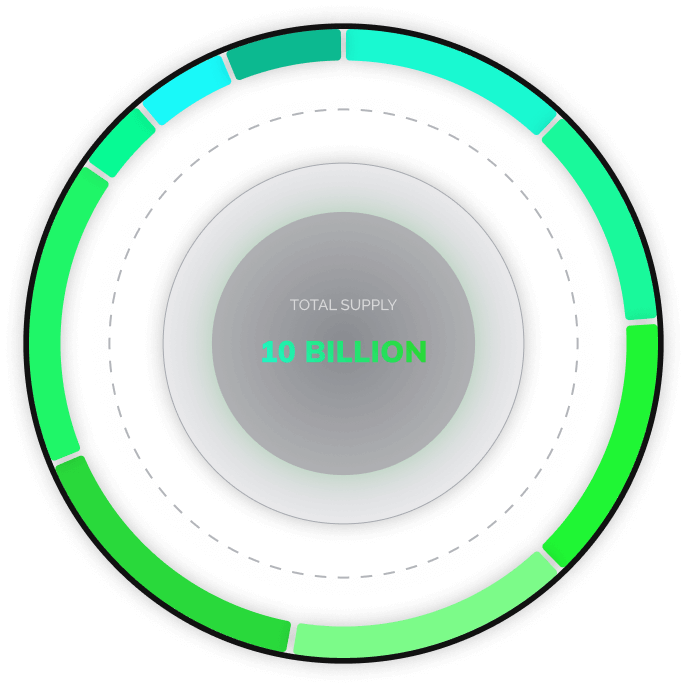
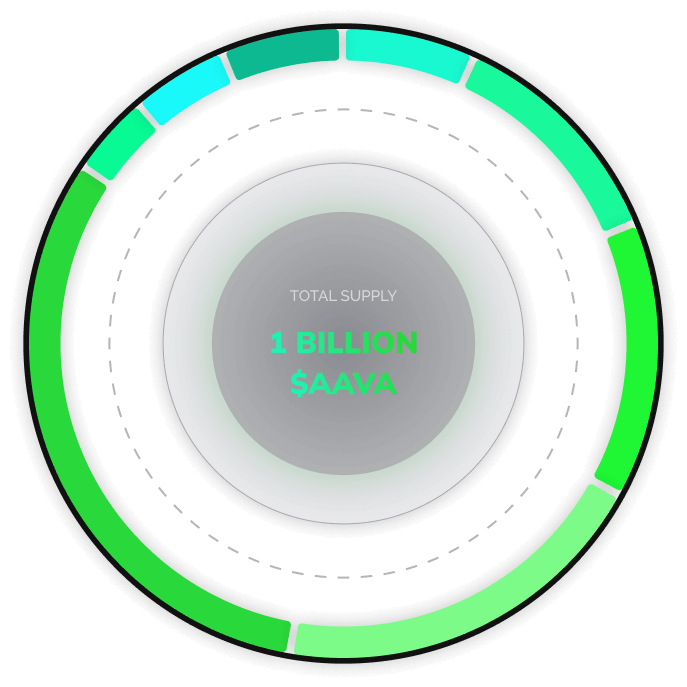
change-text

diff --git a/src/components/Sections/NativeCurrencySection/NativeCurrencySection.tsx b/src/components/Sections/NativeCurrencySection/NativeCurrencySection.tsx
@@ -5,58 +5,52 @@ import Image from 'next/image';
 
 const DATA = [
   {
+    id: 'preseed',
+    name: 'Pre-seed Round',
+    percent: '5% > TGE 5% > 12 month, Linear',
+    count: '50 Million',
+  },
+  {
     id: 'private',
     name: 'Private Round',
-    percent: '(4%)',
-    count: '400 Million',
-  },
-  {
-    id: 'marketing',
-    name: 'Marketing',
-    percent: '(5%)',
-    count: '500 Million',
-  },
-  {
-    id: 'dao',
-    name: 'DAO',
-    percent: '(6%)',
-    count: '600 Million',
+    percent: '10% > TGE 5% > 12 month, Linear',
+    count: '100 Million',
   },
   {
     id: 'liquidity',
     name: 'Liquidity',
-    percent: '(12%)',
-    count: '1.2 Billion',
+    percent: '(25%)',
+    count: '250 Million',
   },
   {
-    id: 'seria',
-    name: 'Seria A',
-    percent: '(12%)',
-    count: '1.2 Billion',
-  },
-  {
-    id: 'reserves',
-    name: 'Reserves',
-    percent: '(14%)',
-    count: '1.4 Billion',
+    id: 'eco',
+    name: 'Ecosystem & Community',
+    percent: '35%',
+    count: '350 Million',
   },
   {
     id: 'airdrop',
     name: 'Airdrop',
-    percent: '(15%)',
-    count: '1.5 Billion',
+    percent: '5%',
+    count: '50 Million',
   },
   {
-    id: 'foundations',
-    name: 'Foundations',
-    percent: '(16%)',
-    count: '1.6 Billion',
+    id: 'advisers',
+    name: 'Advisers',
+    percent: '2% > Cliff 6 month > 12 Month, Linear',
+    count: '20 Million',
+  },
+  {
+    id: 'partners',
+    name: 'Strategic Partners',
+    percent: '3% > TGE 5% > 12 Month, Linear',
+    count: '30 Million',
   },
   {
     id: 'team',
     name: 'Team & Advisers',
-    percent: '(16%)',
-    count: '1.6 Billion',
+    percent: '15% > TGE 0% > Cliff 6 month > 24 Month, Linear',
+    count: '150 Million',
   },
 ];
 
@@ -69,8 +63,8 @@ export const NativeCurrencySection = () => {
           $AAVA IS THE ICONIC <span>currency</span>
         </h2>
         <div className={styles.description}>
-          Maximize your experience with the $AAVA token: enjoy exclusive access, reduced fees,
-          staking rewards, and DAO governance.
+          Enhance your journey with the $AAVA token: indulge in exclusive access, reduced fees,
+          staking rewards, and participate in DAO governance
         </div>
       </div>
       <div className={styles.content}>

diff --git a/src/components/CardCurrency/CardCurrency.module.scss b/src/components/CardCurrency/CardCurrency.module.scss
@@ -2,40 +2,36 @@
   background: #191919;
   border-radius: 8px;
 
-  &.private {
+  &.preseed {
     border-left: 5px solid #19f9d1;
   }
 
-  &.marketing {
+  &.private {
     border-left: 5px solid #19f99b;
-  }
-
-  &.dao {
-    border-left: 5px solid #1ff634;
   }
 
   &.liquidity {
     border-left: 5px solid #7cfb89;
   }
 
-  &.seria {
+  &.eco {
     border-left: 5px solid #29d93b;
   }
 
-  &.reserves {
+  &.airdrop {
+    border-left: 5px solid #0cb990;
+  }
+
+  &.advisers {
     border-left: 5px solid #07fa94;
   }
 
-  &.airdrop {
-    border-left: 5px solid #19f99b;
-  }
-
-  &.foundations {
-    border-left: 5px solid #0cb990;
+  &.partners {
+    border-left: 5px solid #19f9f9;
   }
 
   &.team {
-    border-left: 5px solid #0cb990;
+    border-left: 5px solid #1ff634;
   }
 
   .wrapper {
@@ -53,6 +49,10 @@
         @include respond(laptopM) {
           @include mulish_600_16;
         }
+
+        @include respond(mobile) {
+          @include mulish_600_14;
+        }
       }
 
       .percent {
@@ -62,40 +62,40 @@
           @include mulish_700_14;
         }
 
+        @include respond(mobile) {
+          @include mulish_600_12;
+        }
+
+        &.preseed {
+          color: #19f9d1;
+        }
+
         &.private {
-          color: #1ff668;
+          color: #19f99b;
         }
-  
-        &.marketing {
-          color: #07fa94;
-        }
-  
-        &.dao {
-          color: #0cb990;
-        }
-  
+
         &.liquidity {
-          color: #19f9f9;
+          color: #7cfb89;
         }
-  
-        &.seria {
-          color: #19f9f9;
+
+        &.eco {
+          color: #29d93b;
         }
-  
-        &.reserves {
-          color: #1ff668;
-        }
-  
+
         &.airdrop {
-          color: #19f9f9;
-        }
-  
-        &.foundations {
           color: #0cb990;
         }
-  
-        &.team {
+
+        &.advisers {
           color: #07fa94;
+        }
+
+        &.partners {
+          color: #19f9f9;
+        }
+
+        &.team {
+          color: #1ff634;
         }
       }
     }
@@ -103,6 +103,10 @@
     .count {
       @include mulish_500_18;
       color: var(--gray_2);
+
+      @include respond(mobile) {
+        @include mulish_600_14;
+      }
     }
   }
 }

diff --git a/src/components/Sections/RoadmapSection/RoadmapSection.tsx b/src/components/Sections/RoadmapSection/RoadmapSection.tsx
@@ -17,10 +17,10 @@ const DATA = [
     delay: 0.5,
     data: [
       {
-        text: '< Alpha version >',
+        text: '< Alpha Version >',
       },
       {
-        text: '< Blockchain integration >',
+        text: '< Blockchain Integration >',
       },
       {
         text: '< Waitlists >',
@@ -37,13 +37,10 @@ const DATA = [
     delay: 1.5,
     data: [
       {
-        text: '< Demo version >',
+        text: '< Demo Version >',
       },
       {
         text: '< Marketing >',
-      },
-      {
-        text: '< Airdrop >',
       },
     ],
   },
@@ -57,16 +54,13 @@ const DATA = [
     delay: 2.5,
     data: [
       {
-        text: '< New blockchain integration >',
+        text: '< New Blockchain Integration >',
       },
       {
-        text: '< Full version >',
+        text: '< Full Version >',
       },
       {
         text: '< Listings on CMC and CoinGecko >',
-      },
-      {
-        text: '< Tournaments >',
       },
     ],
   },
@@ -80,14 +74,14 @@ const DATA = [
     delay: 3.5,
     data: [
       {
-        text: '< DEX and CEX listings >',
+        text: '< DEX and CEX Listings >',
       },
       {
-        text: '< Staking >',
+        text: '< New Blockchain Integration >',
       },
       {
-        text: '< New blockchain integration >',
-      },
+        text: '< Staking, Perpertuals & Futures >'
+      }
     ],
   },
   {
@@ -100,10 +94,10 @@ const DATA = [
     delay: 2.1,
     data: [
       {
-        text: '< Mobile version >',
+        text: '< Mobile Version >',
       },
       {
-        text: '< NFT marketplace >',
+        text: '< NFT Marketplace >',
       },
       {
         text: '< Apps >',

diff --git a/src/components/Sections/NativeCurrencySection/NativeCurrencySection.module.scss b/src/components/Sections/NativeCurrencySection/NativeCurrencySection.module.scss
@@ -7,7 +7,7 @@
 
   .header {
     display: grid;
-    grid-template-columns: minmax(100px, 470px) minmax(100px, 658px) minmax(100px, 629px);
+    grid-template-columns: minmax(100px, 434px) minmax(100px, 658px) minmax(100px, 629px);
     margin-bottom: 24px;
 
     @media only screen and (width <= 1705px) {
@@ -68,9 +68,9 @@
   }
 
   .content {
-    padding-left: 480px;
+    padding-left: 434px;
     display: grid;
-    grid-template-columns: minmax(300px, 524px) 1fr;
+    grid-template-columns: minmax(300px, 546px) 1fr;
     gap: 180px;
 
     @media only screen and (width <= 1705px) {

diff --git a/src/components/Socials/Socials.tsx b/src/components/Socials/Socials.tsx
@@ -15,7 +15,7 @@ export const Socials = () => {
           <Image src={'/images/telegram.svg'} width={24} height={24} alt='telegram' />
         </ButtonLink>
 
-        <ButtonLink href={'https://discord.gg/FhXQgY3S'} target='_blank'>
+        <ButtonLink href={'https://discord.gg/JbXGfmdgWx'} target='_blank'>
           <Image src={'/images/discord.svg'} width={24} height={24} alt='discord' />
         </ButtonLink>
       </div>

diff --git a/src/assets/styles/mixins.scss b/src/assets/styles/mixins.scss
@@ -155,6 +155,20 @@
   line-height: normal;
 }
 
+@mixin mulish_600_12 {
+  font-size: 12px;
+  font-style: normal;
+  font-weight: 600;
+  line-height: normal;
+}
+
+@mixin mulish_600_14 {
+  font-size: 14px;
+  font-style: normal;
+  font-weight: 600;
+  line-height: normal;
+}
+
 @mixin mulish_600_16 {
   font-size: 16px;
   font-style: normal;
